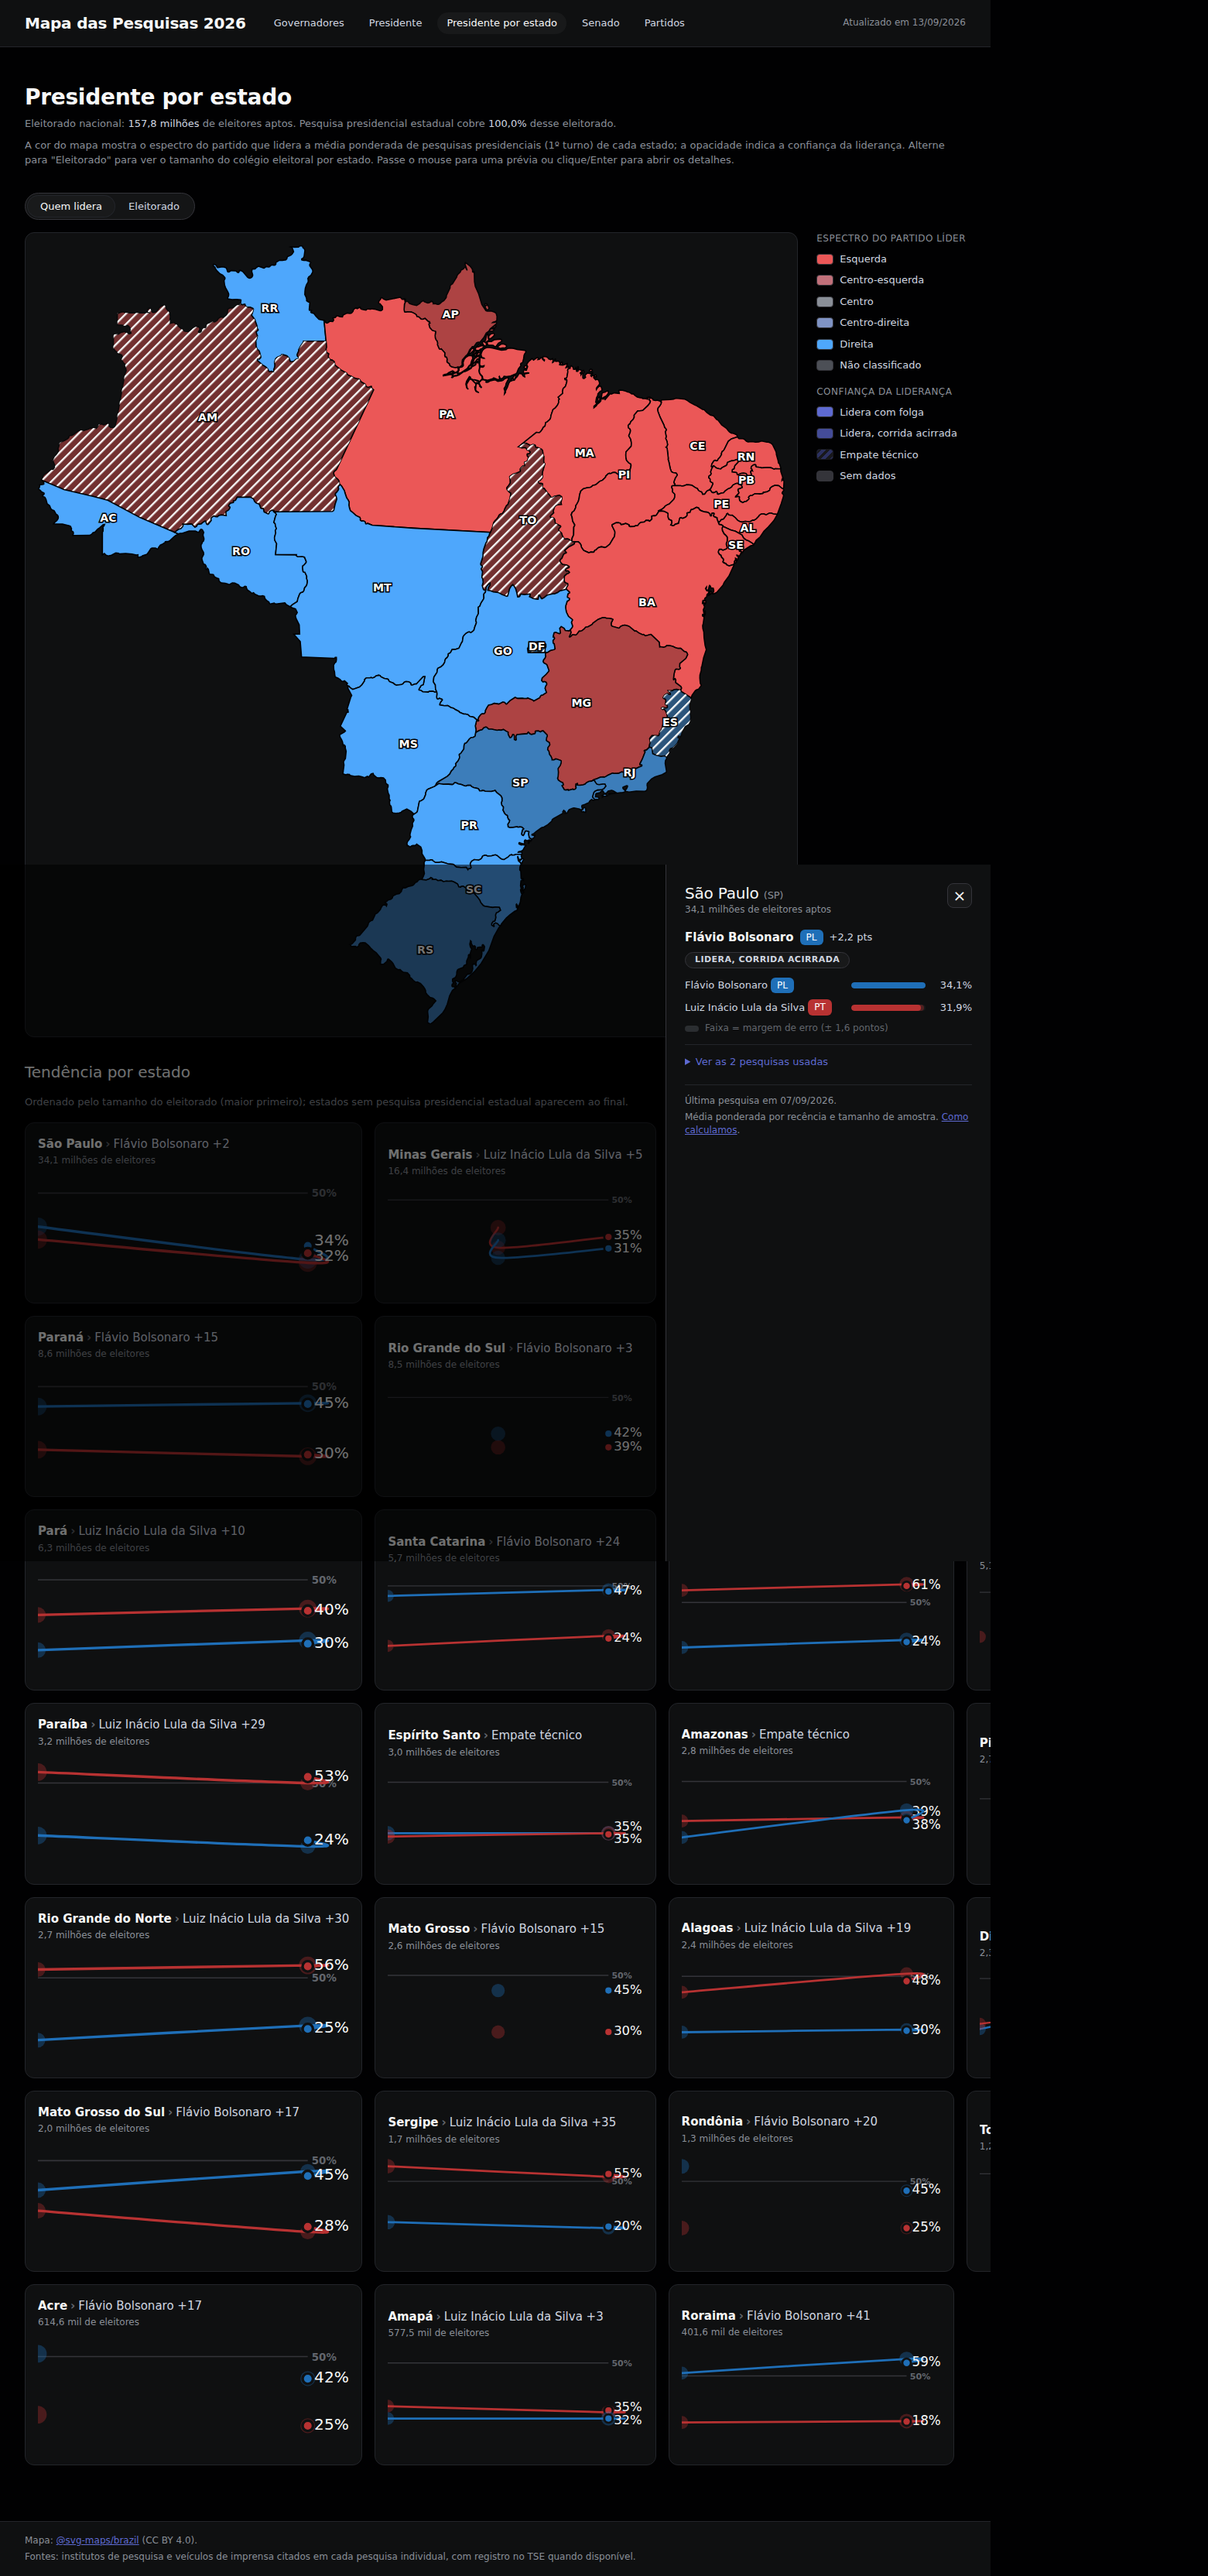
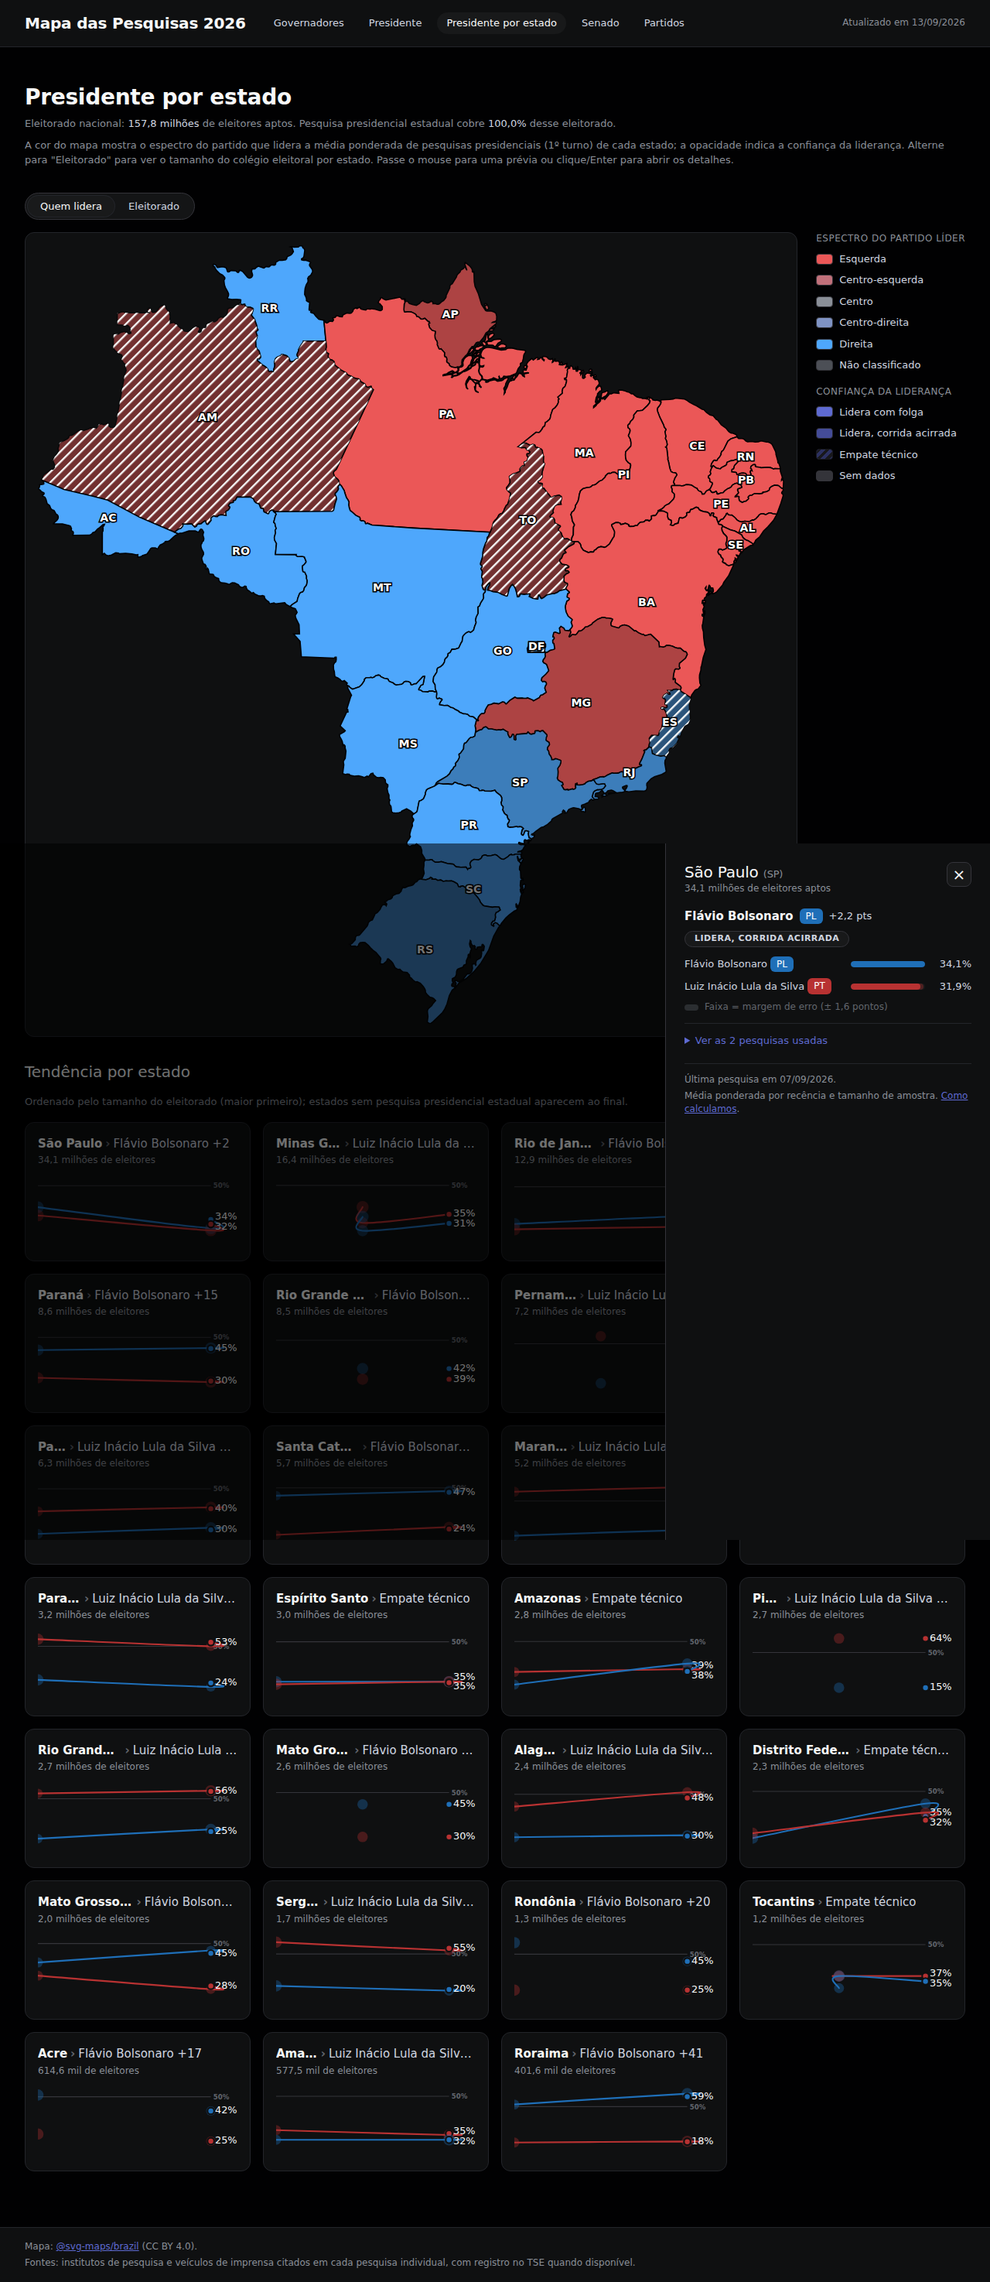
wip: UI rodada 2 e correções do histórico em andamento
Claude-Session: https://claude.ai/code/session_01PuENdgVbxaZSQFR4frZ541

diff --git a/src/adapters/inbound/web/styles/views.css b/src/adapters/inbound/web/styles/views.css
@@ -793,3 +793,98 @@ th[aria-sort='descending'] .pv-table-sort-btn::after {
 @media (prefers-reduced-motion: reduce) {
   .pv-timeline-svg * { transition-duration: 0ms; }
 }
+
+/* =========================================================================
+ * Painel da UF do Senado (clique num assento) — reaproveita as classes
+ * `.state-panel*` de styles/app.css (mesma linguagem visual do painel de
+ * estado); só o conteúdo interno é específico do Senado.
+ * ======================================================================= */
+
+.pv-senate-panel-disputas {
+  display: flex;
+  flex-direction: column;
+  gap: var(--space-3);
+}
+.pv-senate-panel-disputa-item {
+  display: flex;
+  flex-direction: column;
+  gap: 2px;
+  padding-block: var(--space-2);
+}
+.pv-senate-panel-disputa-item + .pv-senate-panel-disputa-item {
+  border-top: 1px solid var(--color-border);
+}
+
+/* =========================================================================
+ * Tabela "Senadores por estado" — abaixo do hemiciclo.
+ * ======================================================================= */
+
+.pv-senate-table-wrap .pv-table {
+  min-width: 0;
+}
+.pv-senate-table-wrap .pv-table th,
+.pv-senate-table-wrap .pv-table td {
+  white-space: normal;
+  overflow-wrap: anywhere;
+}
+.pv-senate-table-wrap .pv-selo,
+.pv-senate-table-wrap .pv-badge-partido {
+  white-space: normal;
+}
+/* Linha destacada pelo select "Destacar UF" ou por rolagem programática —
+   fundo + barra de acento à esquerda, nunca só a cor (o próprio scroll +
+   foco já sinaliza qual linha é a selecionada, para leitor de tela também). */
+.pv-senate-table-wrap tbody tr.pv-senate-table-row--destacada {
+  background: color-mix(in srgb, var(--color-accent) 14%, transparent);
+  box-shadow: inset 3px 0 0 var(--color-accent);
+}
+.pv-senate-table-wrap tbody tr:focus-visible {
+  outline: none;
+  box-shadow: var(--focus-ring);
+}
+
+@media (max-width: 700px) {
+  .pv-senate-table-wrap .pv-table th,
+  .pv-senate-table-wrap .pv-table td {
+    padding-inline: var(--space-1);
+  }
+}
+@media (max-width: 400px) {
+  .pv-senate-table-wrap { border: none; overflow: visible; }
+  .pv-senate-table-wrap table,
+  .pv-senate-table-wrap thead,
+  .pv-senate-table-wrap tbody,
+  .pv-senate-table-wrap tr,
+  .pv-senate-table-wrap td {
+    display: block;
+    width: 100%;
+  }
+  .pv-senate-table-wrap thead { display: none; }
+  .pv-senate-table-wrap tr {
+    background: var(--color-surface-1);
+    border-radius: var(--radius-md);
+    box-shadow: var(--elevation-1);
+    padding: var(--space-3);
+    margin-block-end: var(--space-3);
+  }
+  .pv-senate-table-wrap tbody tr.pv-senate-table-row--destacada {
+    box-shadow: var(--elevation-1), inset 3px 0 0 var(--color-accent);
+  }
+  .pv-senate-table-wrap td {
+    border: none;
+    padding: var(--space-1) 0;
+    display: flex;
+    justify-content: space-between;
+    align-items: flex-start;
+    gap: var(--space-3);
+    white-space: normal;
+    text-align: right;
+  }
+  .pv-senate-table-wrap td::before {
+    content: attr(data-rotulo);
+    font: var(--text-caption);
+    color: var(--color-text-subtle);
+    flex: none;
+    text-align: left;
+  }
+}

diff --git a/src/adapters/inbound/web/views/timeline-chart.ts b/src/adapters/inbound/web/views/timeline-chart.ts
@@ -196,6 +196,16 @@ function fmt(n: number): string {
   return Number.isInteger(n) ? String(n) : n.toFixed(2);
 }
 
+/**
+ * Nome curto de exibição para o rótulo direto no fim da linha — só o
+ * primeiro nome (ex.: "Luiz Inácio Lula da Silva" -> "Luiz"), para caber no
+ * espaço reservado à direita do gráfico sem estourar o viewBox. O nome
+ * completo continua disponível na legenda e no tooltip (nunca só o curto).
+ */
+export function nomeCurto(nomeCompleto: string): string {
+  return nomeCompleto.trim().split(/\s+/)[0] ?? nomeCompleto;
+}
+
 /** Estado de tom de série: 'base' para a 1ª ocorrência de um nível de espectro, 'alt' para as seguintes. */
 export type TomSerie = 'base' | 'alt';
 
@@ -245,7 +255,10 @@ export interface OpcoesTimelineChart {
 
 const LARGURA = 720;
 const ALTURA = 340;
-const MARGEM = { topo: 16, direita: 96, baixo: 36, esquerda: 40 };
+// `direita` reserva espaço para o rótulo direto no fim de cada linha
+// ("38,9% Luiz") — largo o bastante para o 1º nome + percentual sem
+// estourar o viewBox (o nome completo fica na legenda/tooltip).
+const MARGEM = { topo: 16, direita: 132, baixo: 36, esquerda: 40 };
 
 function criarSvgEl<K extends keyof SVGElementTagNameMap>(
   tag: K,
@@ -404,7 +417,7 @@ export function renderTimelineChart(host: HTMLElement, opcoes: OpcoesTimelineCha
           x: ultimo.x,
           y: ultimo.y,
           corVar,
-          texto: `${formatarNumero(ultimoValor)}% ${candidato.nome}`,
+          texto: `${formatarNumero(ultimoValor)}% ${nomeCurto(candidato.nome)}`,
         });
       }
     }

diff --git a/src/adapters/inbound/web/styles/presidential-states.css b/src/adapters/inbound/web/styles/presidential-states.css
@@ -19,6 +19,10 @@
   padding-block: var(--space-5);
 }
 
+.ps-view > * {
+  min-width: 0;
+}
+
 .ps-view *:focus-visible {
   outline: none;
   box-shadow: var(--focus-ring);
@@ -280,6 +284,14 @@
   grid-template-columns: 1fr;
   gap: var(--space-4);
 }
+/* Itens de grid têm `min-width:auto` por padrão, que usa o max-content do
+   conteúdo (aqui, o nome do candidato em `.ps-card__vantagem` sem quebra de
+   linha) como piso — isso ignorava o `1fr` e inflava as 4 colunas além do
+   viewport em ~1280px (mesma causa raiz documentada em app.css/views.css
+   para flex; para grid o fix é o mesmo `min-width:0`, aplicado ao item). */
+.ps-grid > * {
+  min-width: 0;
+}
 @media (min-width: 640px) {
   .ps-grid {
     grid-template-columns: repeat(2, 1fr);
@@ -331,10 +343,16 @@
   color: var(--color-text);
   min-width: 0;
 }
+/* O nome do estado nunca trunca (é sempre curto o bastante e é a chave de
+   leitura do card) — só o texto de vantagem (candidato + pontos, que pode
+   ser bem mais longo, ex. "Luiz Inácio Lula da Silva +31") absorve todo o
+   encolhimento e ganha reticências quando não cabe. */
 .ps-card__uf {
   overflow: hidden;
   text-overflow: ellipsis;
   white-space: nowrap;
+  flex: none;
+  max-width: 100%;
 }
 .ps-card__separador {
   color: var(--color-text-tertiary);
@@ -344,6 +362,8 @@
   overflow: hidden;
   text-overflow: ellipsis;
   white-space: nowrap;
+  flex: 1 1 auto;
+  min-width: 0;
   color: var(--color-text-muted);
   font-weight: var(--font-variation-nav);
 }

diff --git a/src/adapters/inbound/web/views/__tests__/timeline-chart.test.ts b/src/adapters/inbound/web/views/__tests__/timeline-chart.test.ts
@@ -9,6 +9,7 @@ import {
   formatarRotuloDataCurta,
   gerarTicksTempo,
   gerarTicksY,
+  nomeCurto,
   raioPonto,
   RAIO_AMOSTRA_DESCONHECIDA,
 } from '../timeline-chart.js';
@@ -136,6 +137,17 @@ describe('timeline-chart: caminhoSuavizado', () => {
     expect(d).toContain('C ');
     // A curva deve terminar exatamente no último ponto de controle (20, 0).
     expect(d.trim().endsWith('20 0')).toBe(true);
+  });
+});
+
+describe('timeline-chart: nomeCurto', () => {
+  it('usa só o primeiro nome de um nome completo, para caber no rótulo do fim da linha', () => {
+    expect(nomeCurto('Luiz Inácio Lula da Silva')).toBe('Luiz');
+    expect(nomeCurto('Flávio Bolsonaro')).toBe('Flávio');
+  });
+
+  it('nome com um único token retorna o próprio nome', () => {
+    expect(nomeCurto('Cury')).toBe('Cury');
   });
 });
 

diff --git a/src/adapters/inbound/web/views/senate-view.ts b/src/adapters/inbound/web/views/senate-view.ts
@@ -699,7 +699,8 @@ function destacarLinhaTabelaSenado(uf: string): void {
   if (!linha) return;
   document.querySelectorAll('.pv-senate-table-row--destacada').forEach((el) => el.classList.remove('pv-senate-table-row--destacada'));
   linha.classList.add('pv-senate-table-row--destacada');
-  linha.scrollIntoView({ block: 'center', behavior: 'smooth' });
+  const reduzMovimento = window.matchMedia?.('(prefers-reduced-motion: reduce)').matches;
+  linha.scrollIntoView({ block: 'center', behavior: reduzMovimento ? 'auto' : 'smooth' });
   linha.focus({ preventScroll: true });
 }
 
